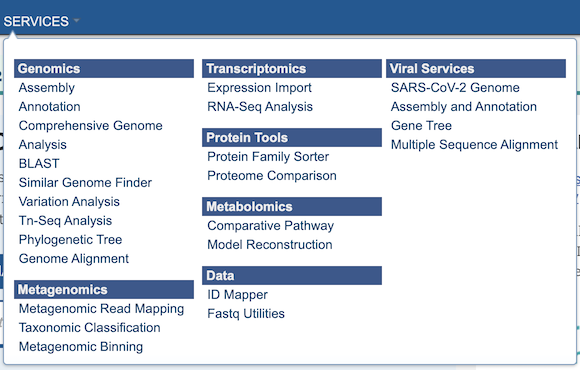
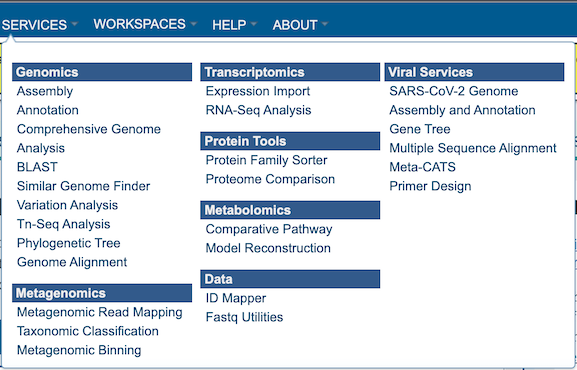
Starting MSA service quick reference

diff --git a/docroot/quick_references/services/msa_snp_variation_service.md b/docroot/quick_references/services/msa_snp_variation_service.md
@@ -1,0 +1,54 @@
+# Multiple Sequence Alignment and SNP/Variation Analysis Service
+
+## Overview
+The Multiple Sequence Alignment (MSA) and Single Nucleotide Polymorphism (SNP)/Variation Analysis Service allows users to choose an alignment algorithm to align sequences selected from: a search result, a FASTA file saved to the workspace, or through simply cutting and pasting. The service can also be used for variation and SNP analysis with feature groups, FASTA files, aligned FASTA files, and user input FASTA records. If a single alignment file is given, then only the variation analysis is run. If multiple inputs are given, the program concatenates all sequence records and aligns them. If a mixture of protein and nucleotides are given, then nucleotides are converted to proteins. 
+
+### See also
+* [MSA and SNP/Variation Analysis Service](https://beta.bv-brc.org/app/MSA)
+* [MSA and SNP/Variation Analysis Service Tutorial](../msa_snp_variation.html)
+* [Comparative Pathway Tool User Guide](../other/msa_viewer.html)
+
+## Using the Multiple Sequence Alignment and Variation/SNP Analysis Service
+The **Multiple Sequence Alignment** submenu option under the **"SERVICES"** main menu (Viral Services category) opens the MSA and SNP/Variation Service input form. *Note: You must be logged into BV-BRC to use this service.*
+
+![MSA menu option](../images/bv_services_menu.png)
+
+## Options
+![BLAST Input Form](../images/blast_input_form.png) 
+
+
+
+
+
+![Figure 1](../images/msa_Picture1.png "Figure 1")
+
+
+![Figure 2](../images/msa_Picture2.png "Figure 2")
+
+
+![Figure 3](../images/msa_Picture3.png "Figure 3")
+
+
+![Figure 4](../images/msa_Picture4.png "Figure 4")
+
+
+![Figure 5](../images/msa_Picture5.png "Figure 5")
+
+
+![Figure 6](../images/msa_Picture6.png "Figure 6")
+
+
+![Figure 7](../images/msa_Picture7.png "Figure 7")
+
+
+
+
+
+![Figure 8](./images/Picture8.png "Figure 8")
+
+
+![Figure 9](./images/Picture9.png "Figure 9")
+
+
+![Figure 10](./images/Picture10.png "Figure 10")
+
